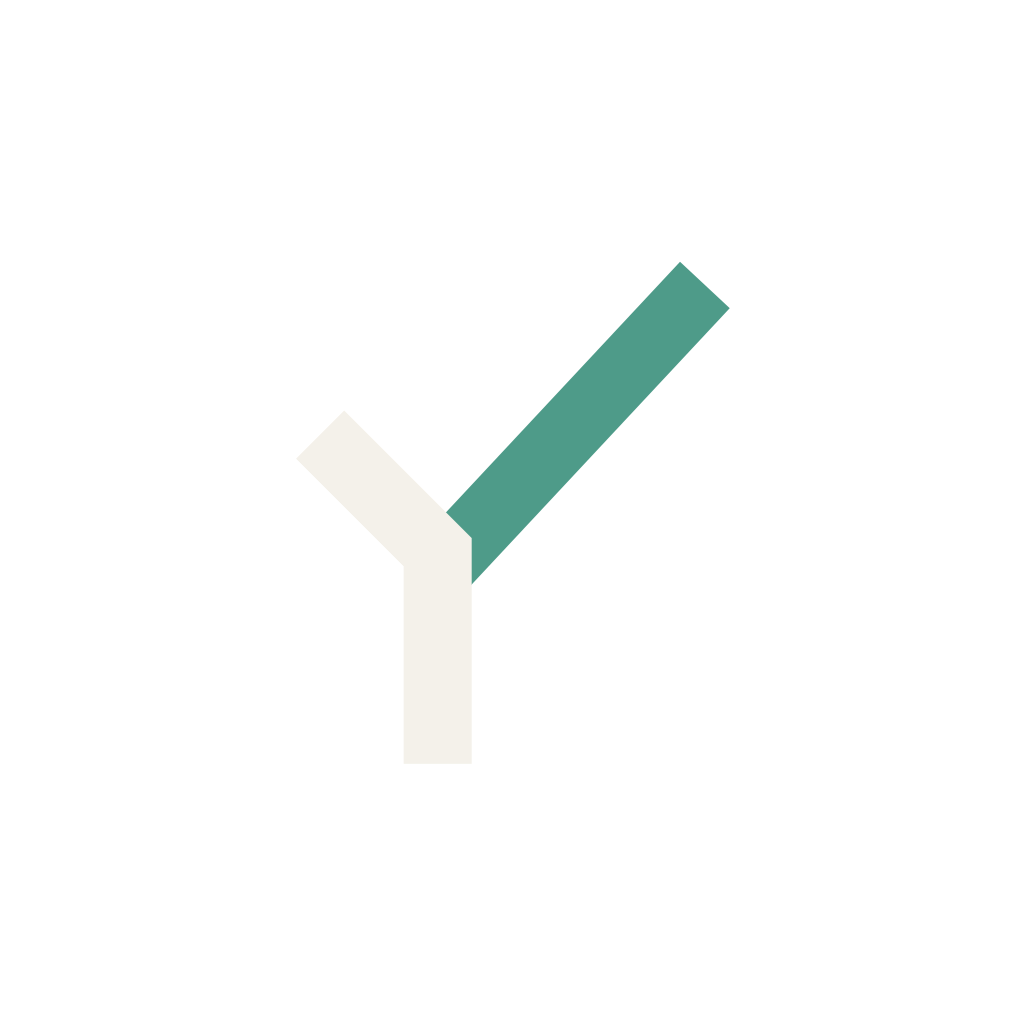
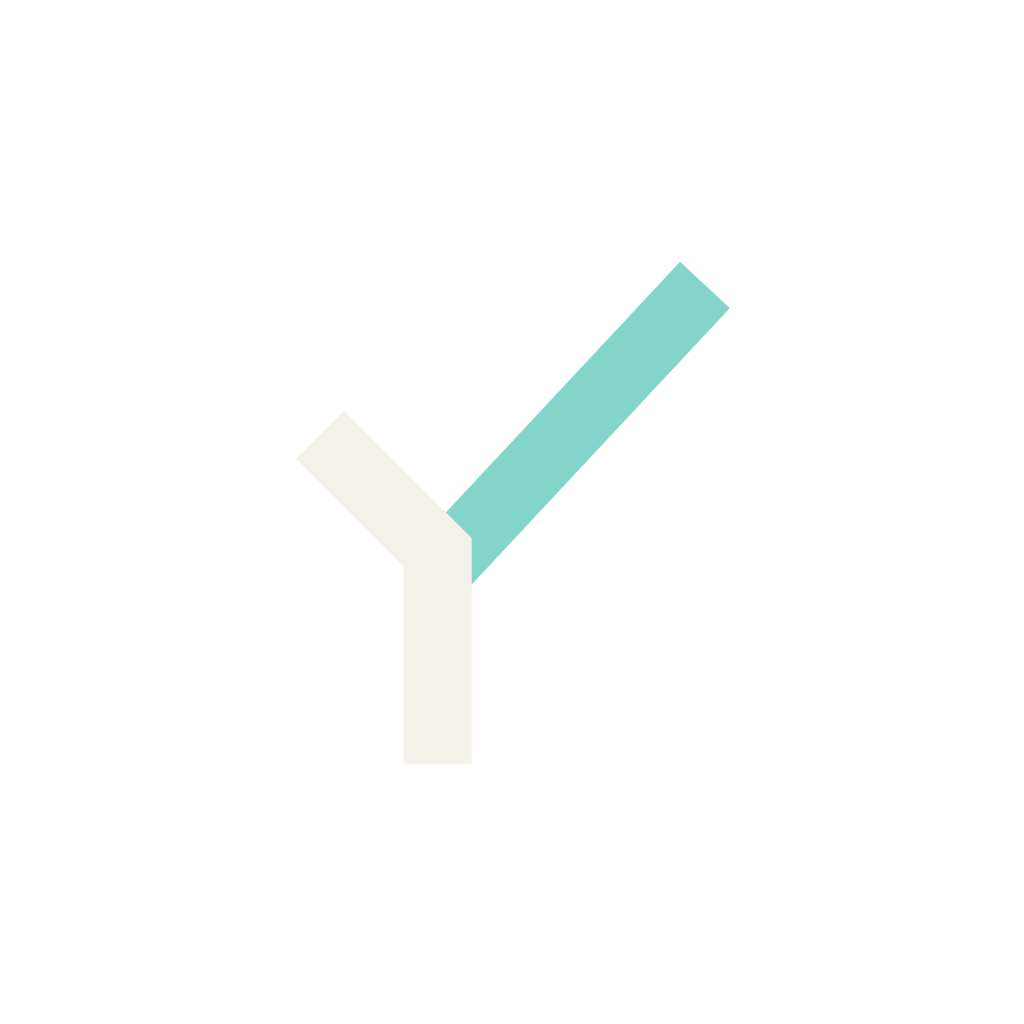
Move the brand accent to the generated Material 3 primary
The mark, both lockups, every favicon, the app and maskable icons, the GitHub
avatar, the OG card and the splash screens were all drawn in #2F6B5E, and the
app and the engine's pages now derive their colour from Colors.teal. Leaving
them would have put a different green in the navbar from the links beside it.

The accent is defined by the shell's ColorScheme.fromSeed and copied into
generate-brand.mjs, not the other way round: M3 pulls any seed to tone 40 and
rebuilds the ramp, so a hand-picked brand hex returns as something near itself
but not itself. A mark can be drawn in a generated colour; a generated palette
cannot be talked into matching a mark.

Ink and paper are untouched. They are the grounds the mark is drawn on rather
than a hue, which is also why the scaffolder uses them for launcher icons.

The Infima ramp is recomputed with the scaling its own generator uses — HSL
lightness at .9/.85/.7 and 1.1/1.15/1.3 — so the shades stay consistent with
how Infima applies them.

Changed region(s): [[0.4375, 0.25, 0.7188, 0.5625]]

diff --git a/src/css/custom.css b/src/css/custom.css
@@ -37,17 +37,20 @@
   font-display: swap;
 }
 
-/* The brand accent, per static/brand/USAGE.md. The surrounding ramp is the one
+/* The brand accent, per static/brand/USAGE.md — Material 3 primary for a
+   Colors.teal seed, the same value the app derives its scheme from and the
+   engine serves its pages with, so the mark in the navbar and the links beside
+   it are one colour. The surrounding ramp is the one
    Docusaurus' own colour generator produces — HSL lightness scaled by .9/.85/.7
    and 1.1/1.15/1.3 — so the shades stay consistent with how Infima uses them. */
 :root {
-  --ifm-color-primary: #2f6b5e;
-  --ifm-color-primary-dark: #2a6055;
-  --ifm-color-primary-darker: #285b50;
-  --ifm-color-primary-darkest: #214b42;
-  --ifm-color-primary-light: #347667;
-  --ifm-color-primary-lighter: #367b6c;
-  --ifm-color-primary-lightest: #3d8b7a;
+  --ifm-color-primary: #006a60;
+  --ifm-color-primary-dark: #005f56;
+  --ifm-color-primary-darker: #005a52;
+  --ifm-color-primary-darkest: #004a43;
+  --ifm-color-primary-light: #00756a;
+  --ifm-color-primary-lighter: #007a6e;
+  --ifm-color-primary-lightest: #008a7d;
   --ifm-code-font-size: 95%;
   --docusaurus-highlighted-code-line-bg: rgba(0, 0, 0, 0.1);
 
@@ -67,12 +70,12 @@
 /* The palette carries a separate, lighter accent for dark backgrounds — the
    light-mode green does not have the contrast to be reused here. */
 [data-theme="dark"] {
-  --ifm-color-primary: #4e9b89;
-  --ifm-color-primary-dark: #468b7b;
-  --ifm-color-primary-darker: #428474;
-  --ifm-color-primary-darkest: #376c60;
-  --ifm-color-primary-light: #56aa96;
-  --ifm-color-primary-lighter: #5eae9b;
-  --ifm-color-primary-lightest: #75baaa;
+  --ifm-color-primary: #82d5c8;
+  --ifm-color-primary-dark: #68ccbd;
+  --ifm-color-primary-darker: #5bc8b7;
+  --ifm-color-primary-darkest: #3cb4a1;
+  --ifm-color-primary-light: #9cded3;
+  --ifm-color-primary-lighter: #a9e2d9;
+  --ifm-color-primary-lightest: #cfefea;
   --docusaurus-highlighted-code-line-bg: rgba(0, 0, 0, 0.3);
 }

diff --git a/static/brand/USAGE.md b/static/brand/USAGE.md
@@ -56,9 +56,21 @@ is why `favicon.svg` exists and supersedes the pair.
 ```
 ink      #1B1E24
 paper    #F4F1EA
-accent   #2F6B5E   (on light)
-accent   #4E9B89   (on dark)
+accent   #006A60   (on light)
+accent   #82D5C8   (on dark)
 ```
+
+The accent is Material 3's `primary` for a `Colors.teal` seed, one value per
+brightness — the same value the Flutter shell derives its whole scheme from and
+the engine's public pages set `--primary` to. It is defined there and copied
+here rather than the other way round: M3 pulls any seed to tone 40 and rebuilds
+the ramp around it, so a hand-picked brand hex comes back as something near
+itself but not itself. A mark can be drawn in a generated colour; a generated
+palette cannot be talked into matching a mark.
+
+Ink and paper carry no such obligation. They are the two grounds the mark is
+drawn on, which is why the game scaffolder also uses them for launcher icons and
+splash screens.
 
 ## Rules
 
@@ -107,7 +119,7 @@ needs no font loaded.
 One colour that follows text colour:
 
 ```html
-<span style="color:#2F6B5E">
+<span style="color:#006A60">
   <img src="/brand/eigen-mark-mono.svg" width="24" height="24" alt="">
 </span>
 ```
